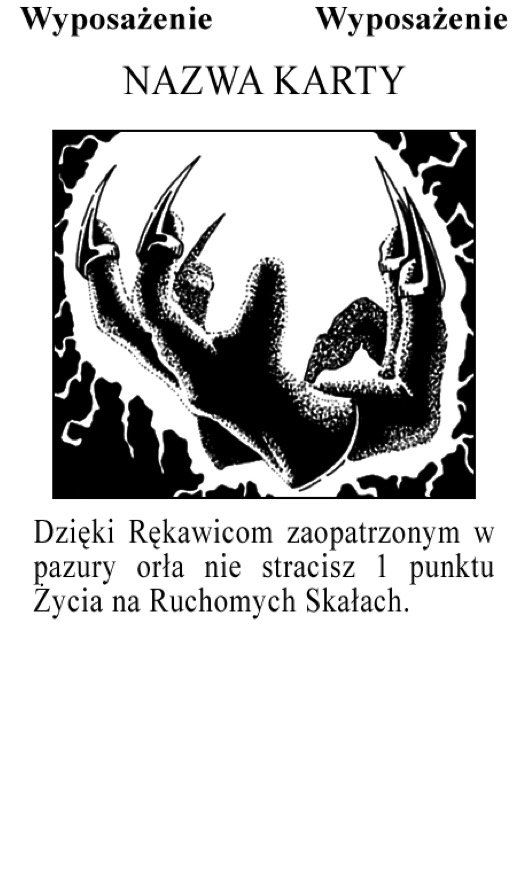
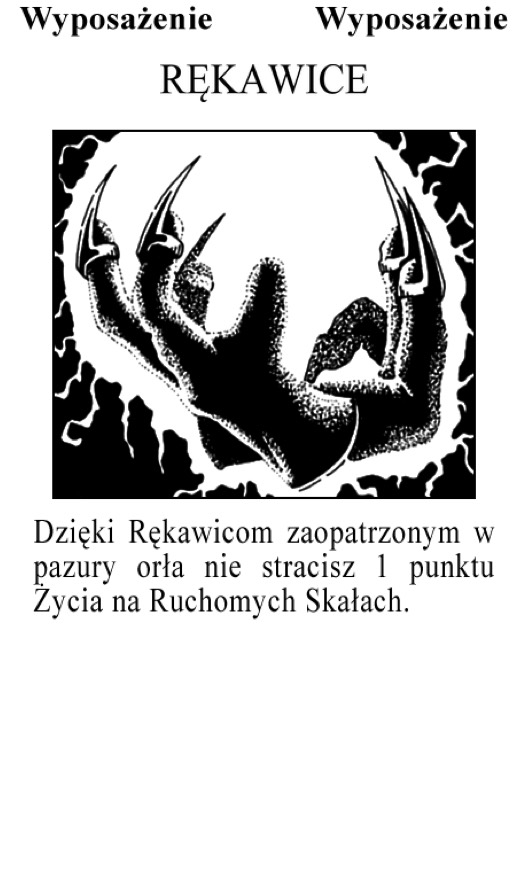
The fourteen cards the box printed as NAZWA KARTY get their names
Ten cards on the Wyposażenie i Zaklęcia sheet and four on the Wyposażenie
one went to print with the template's own words still in the title band —
NAZWA KARTY, corner labels reading "Wyposażenie / Wyposażenie" instead of
the class and kind. The illustration and the rules text are finished; only
the name was never filled in. That is the paper, so `src/data/raw/` records
it verbatim and goes on doing so: a transcription that quietly corrected
the sheet is one nobody can check against the sheet.

Thirteen of the fourteen never surfaced. Every other Wyposażenie card is
also in the Karty Zdarzeń deck under the same id and `cardImages.ts` walks
the event deck first, so each already drew a titled printing. The Tarcza
Tolimana is the one exception, because the deck files its twin under a
different id — TARCZA BOGA TOLIMANA — and that made it the only card in the
game whose picture said NAZWA KARTY where the panel beside it said the real
name. All fourteen are set anyway; the next thing to reach for one of these
slices should not have to know which of them got lucky.

Set, not copied. Lifting the band off the event card would carry TARCZA
BOGA TOLIMANA across, and that is not what this card is called — the shop
card is TARCZA TOLIMANA and 21.2's stock is counted under that name. So the
type is set in the sheet's own measurements: rows 57–81 of a 460-wide
slice, cap height 25, centred; Times New Roman, the nearest Roman the system
[…]

Changed region(s): [[0.2429, 0.0614, 0.759, 0.1227]]

diff --git a/scripts/set-missing-card-titles.py b/scripts/set-missing-card-titles.py
@@ -1,0 +1,179 @@
+"""Sets the fourteen Wyposażenie titles the box went to print without.
+
+Ten cards on the *Wyposażenie i Zaklęcia* sheet and four on the *Wyposażenie*
+one carry the template's own words in the title band — **NAZWA KARTY**, "card
+name" — with the corner labels left as "Wyposażenie / Wyposażenie" instead of
+the class and kind the finished cards print. The illustration and the rules
+text are complete; only the name was never filled in. It is on the scans, so it
+is on the printed sheets, and `src/data/raw/` records it verbatim because a
+transcription that quietly corrected it would be a transcription you could not
+check against the paper.
+
+Thirteen of the fourteen never surface: every other Wyposażenie card is also in
+the Karty Zdarzeń deck under the same id, and `cardImages.ts` walks the event
+deck first, so the app already draws a properly titled printing of each. The
+Tarcza Tolimana is the exception — the deck files its twin under a *different*
+id, TARCZA BOGA TOLIMANA — so it is the one card in the game whose picture says
+NAZWA KARTY. All fourteen are set anyway: the next thing to reach for a
+Wyposażenie slice by name should not have to know which of them was lucky.
+
+The name is *set*, not copied. Lifting the band off the event card would carry
+its title across too, and TARCZA BOGA TOLIMANA is not what this card is called
+— the shop card is TARCZA TOLIMANA, and 21.2's stock is counted under that
+name. So the type is set here, in the sheet's own measurements:
+
+  * the title sits on rows 57–81 of a 460-wide slice, cap height 25, centred —
+    identical on every card of both sheets, template and finished alike;
+  * the face is a Roman, and Times New Roman is the nearest the system has.
+    It is *wider* than the sheet's: at equal cap height the printed
+    „MAGICZNY MIECZ" measures 297 and Times measures 323, and two more samples
+    agree within a percent. So the setting is condensed by the measured ratio
+    rather than by eye, and `CONDENSE` is that number.
+
+Like every other asset script here the output is committed, so nobody needs the
+scans or Pillow to run the app — only to regenerate the pictures. Run it after
+`export-card-images.mjs`, which is what it overwrites:
+
+    node scripts/export-card-images.mjs && python3 scripts/set-missing-card-titles.py
+
+Reads the full-resolution slice and hands the JPEG to the same `sips` call the
+export uses, rather than repainting the finished JPEG — one encode, and the set
+name is upscaled by exactly what the printed text around it is.
+"""
+
+import json
+import subprocess
+import tempfile
+from pathlib import Path
+
+from PIL import Image, ImageDraw, ImageFont
+
+ROOT = Path(__file__).resolve().parent.parent
+EXTRACTED = ROOT / "assets/extracted"
+OUT = ROOT / "public/cards"
+
+SERIF = "/System/Library/Fonts/Supplemental/Times New Roman.ttf"
+
+# What the box prints where a name should be.
+PLACEHOLDER = "NAZWA KARTY"
+
+# Measured off the scans, at the slice's own 460x768. The band is the same on
+# every card of both sheets, which is what makes one set of numbers enough.
+SLICE_WIDTH = 460
+TITLE_TOP, TITLE_BOTTOM = 57, 81
+# Cleared before setting: the corner labels end at row 30 and the illustration
+# frame begins at 108 at the earliest, so this reaches neither.
+CLEAR_TOP, CLEAR_BOTTOM = 40, 100
+
+# Times at equal cap height against the printed titles: 297/323 on „MAGICZNY
+# MIECZ", and the same to within a percent on „TARCZA BOGA TOLIMANA" and
+# „TARCZA". The sheet's face is simply narrower.
+CONDENSE = 0.92
+# Nothing is set wider than this much of the card, however long the name.
+MAX_WIDTH = 0.90
+# Type is set large and brought down, so the curves survive the condensing.
+OVERSAMPLE = 8
+
+# The export's own numbers — see `export-card-images.mjs`. Kept in step by hand
+# because this script writes the same files, and a mismatch would show as one
+# card in a row rendering at a different size or sharpness.
+WEB_WIDTH = 880
+QUALITY = 72
+
+
+def missing_titles():
+    """Every slice the box left the template on, and what the card is called."""
+    items = json.loads((ROOT / "src/data/items.json").read_text())
+    sheets = {
+        name: json.loads((ROOT / f"src/data/raw/{name}.json").read_text())
+        for name in ("wyposazenie", "wyposazenie-zaklecia")
+    }
+    seen = set()
+    for item in items:
+        sheet, index = item["source"]["sheet"], item["source"]["index"]
+        if (sheet, index) in seen:
+            continue
+        seen.add((sheet, index))
+        if sheets[sheet][index - 1]["name"] == PLACEHOLDER:
+            yield sheet, index, item["name"]
+
+
+def set_title(card: Image.Image, name: str) -> Image.Image:
+    """Whites out the template's words and sets the card's own in their place."""
+    width, _ = card.size
+    scale = width / SLICE_WIDTH
+    cap = (TITLE_BOTTOM - TITLE_TOP + 1) * scale
+
+    draw = ImageDraw.Draw(card)
+    draw.rectangle(
+        [0, CLEAR_TOP * scale, width, CLEAR_BOTTOM * scale],
+        fill=255,
+    )
+
+    # Set big, then bring it down: `ImageFont` sizes by em, and an em says
+    # nothing about how tall a capital stands in a given face.
+    font = ImageFont.truetype(SERIF, int(cap * OVERSAMPLE))
+    big = Image.new("L", (int(width * OVERSAMPLE * 2), int(cap * OVERSAMPLE * 4)), 255)
+    baseline = big.height * 2 / 3
+    ImageDraw.Draw(big).text((big.width / 2, baseline), name, font=font, fill=0, anchor="ms")
+    ink = big.point(lambda v: 255 if v < 128 else 0).getbbox()
+    if ink is None:
+        raise SystemExit(f"nothing was set for {name!r}")
+
+    lettering = big.crop(ink)
+
+    # Scaled by the *cap* height and not by the ink, which is the whole reason
+    # the ogonek is measured separately: RĘKAWICE is exactly as tall as ZBROJA
+    # in print, and scaling the two by their ink boxes set one of them smaller
+    # than the other to make room for the tail on the Ę.
+    letter = Image.new("L", big.size, 255)
+    ImageDraw.Draw(letter).text((big.width / 2, baseline), "H", font=font, fill=0, anchor="ms")
+    caps = letter.point(lambda v: 255 if v < 128 else 0).getbbox()
+    factor = cap / (caps[3] - caps[1])
+
+    long = lettering.width * factor * CONDENSE
+    room = width * MAX_WIDTH
+    if long > room:
+        factor *= room / long
+        long = room
+    lettering = lettering.resize(
+        (max(1, round(long)), max(1, round(lettering.height * factor))), Image.LANCZOS
+    )
+
+    # Placed by the baseline, so a tail below it hangs where the face puts it
+    # instead of pushing the capitals up out of the band.
+    sits = (TITLE_BOTTOM + 1) * scale - (baseline - ink[1]) * factor
+    card.paste(lettering, (round((width - lettering.width) / 2), round(sits)), None)
+    return card
+
+
+def main() -> None:
+    OUT.mkdir(parents=True, exist_ok=True)
+    for sheet, index, name in missing_titles():
+        slice_id = f"{sheet}-{index:02d}"
+        source = EXTRACTED / sheet / f"{slice_id}.png"
+        if not source.exists():
+            raise SystemExit(
+                f"{source} is missing — run `node scripts/extract-assets.mjs` first."
+            )
+        card = set_title(Image.open(source).convert("L"), name)
+        with tempfile.NamedTemporaryFile(suffix=".png") as handle:
+            card.save(handle.name)
+            subprocess.run(
+                [
+                    "sips",
+                    "-s", "format", "jpeg",
+                    "-s", "formatOptions", str(QUALITY),
+                    "-Z", str(WEB_WIDTH),
+                    handle.name,
+                    "--out", str(OUT / f"{slice_id}.jpg"),
+                ],
+                check=True,
+                stdout=subprocess.DEVNULL,
+                stderr=subprocess.DEVNULL,
+            )
+        print(f"{slice_id}: {name}")
+
+
+if __name__ == "__main__":
+    main()

diff --git a/CLAUDE.md b/CLAUDE.md
@@ -289,6 +289,22 @@ character. Then `node scripts/export-card-images.mjs` writes the
 web-sized JPEGs into `public/cards/` — those *are* committed, so a fresh
 checkout has the pictures without needing the scans.
 
+`python3 scripts/set-missing-card-titles.py` runs **after** that one and
+overwrites fourteen of its files. The box went to print with the template's
+own words in the title band of ten cards on the *Wyposażenie i Zaklęcia*
+sheet and four on the *Wyposażenie* one — **NAZWA KARTY**, corner labels
+still reading "Wyposażenie / Wyposażenie" — so the scans say it and
+`src/data/raw/` records it verbatim, because a transcription that quietly
+corrected the paper is one you cannot check against the paper. Thirteen of
+the fourteen never surfaced: every other Wyposażenie card is also in the
+event deck under the same id and `cardImages.ts` walks that deck first. The
+Tarcza Tolimana is the exception, its twin being filed as TARCZA BOGA
+TOLIMANA, so it was the one card in the game whose picture said NAZWA KARTY.
+The name is *set* rather than lifted off the event card, which would carry
+that other title across; Times New Roman condensed to the measured 0.92,
+scaled by cap height and placed on the printed baseline. Needs Pillow, like
+`make-random-card.py` and for the same reason.
+
 <!-- BEGIN:nextjs-agent-rules -->
 
 # This is NOT the Next.js you know
